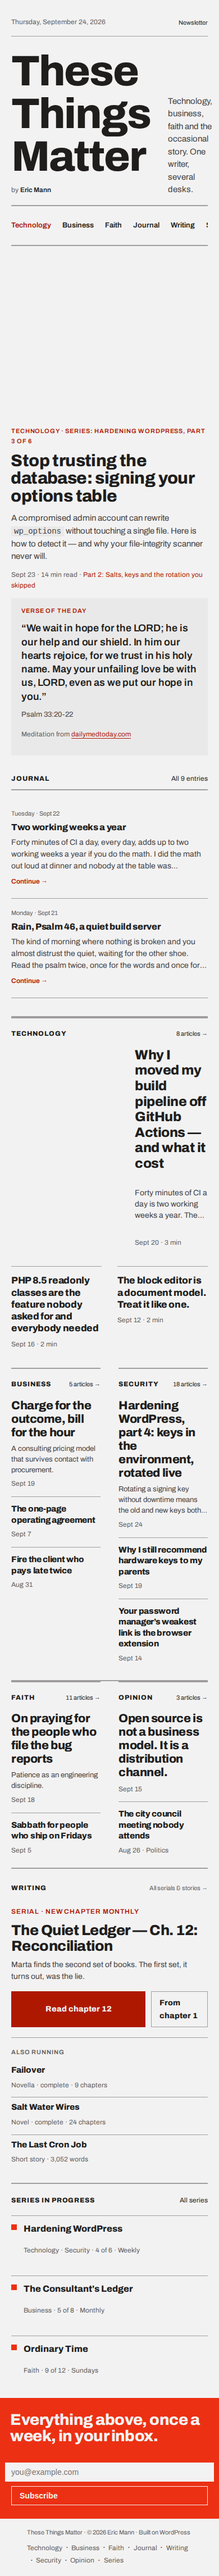
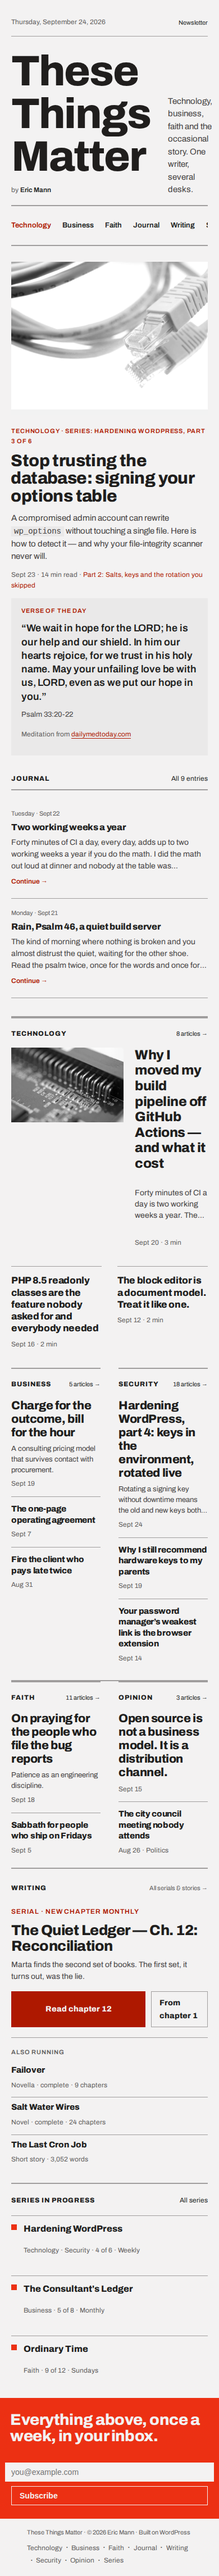
P2-08: Phase 2 screenshots and push
Goal: close Phase 2: demo outputs committed and checked locally and in
CI; owner screenshots retaken; branch pushed.

Tests: scripts/test/demo-check.test.js gains a test for the new
skipAttachmentChecks option (checkPages).

Interpretation: further investigation into the P2-06/P2-07-documented
Playground content-rendering gap found it's real but narrower than first
recorded: `checkPages()` was also asserting on an actual demo photograph
existing in the lead/article hero images, which -- like the attachment
count -- can never be true for the local variant (fetchAttachments never
downloads a binary from a bare 127.0.0.1 server, per docs/spikes/P2-01.md).
Added a `skipAttachmentChecks` option, on for the local Playground path
and off for `--url` (a real site, where it still checks these). This
closed 2 of the original 8 failures for good. Also tried and reverted
`--workers=1`/`--workers=2`: forcing every request onto fewer workers so
the blueprint's own import/rebuild and the page fetches that follow share
the same WordPress object-cache process fixed the remaining 4 failures
when it worked, but reproduced the CLI's own documented deadlock risk
("may increase the likelihood of deadlock... blocking on file locks") as
a real, repeated, indefinite hang -- worse than the content gap for a
release gate, so the default worker pool is kept and the finding is
recorded in check.mjs's own docblock instead. Also added a per-request
[…]

Changed region(s): [[0.0308, 0.0935, 0.9538, 0.1559], [0.0308, 0.4054, 0.5846, 0.4365]]

diff --git a/scripts/test/demo-check.test.js b/scripts/test/demo-check.test.js
@@ -103,6 +103,18 @@ describe( 'checkPages', () => {
 		expect( checkPages( conformingPages() ) ).toEqual( [] );
 	} );
 
+	it( 'skipAttachmentChecks skips both demo-photograph assertions (local Playground variant)', () => {
+		const pages = conformingPages( {
+			front: { html: frontHtml( { withLeadImage: false } ) },
+			article: { html: articleHtml( { withHeroImage: false } ) },
+		} );
+
+		expect( checkPages( pages, { skipAttachmentChecks: true } ) ).toEqual(
+			[]
+		);
+		expect( checkPages( pages ).length ).toBeGreaterThan( 0 );
+	} );
+
 	it( 'fails on a non-200 status', () => {
 		const failures = checkPages(
 			conformingPages( { front: { status: 500 } } )
